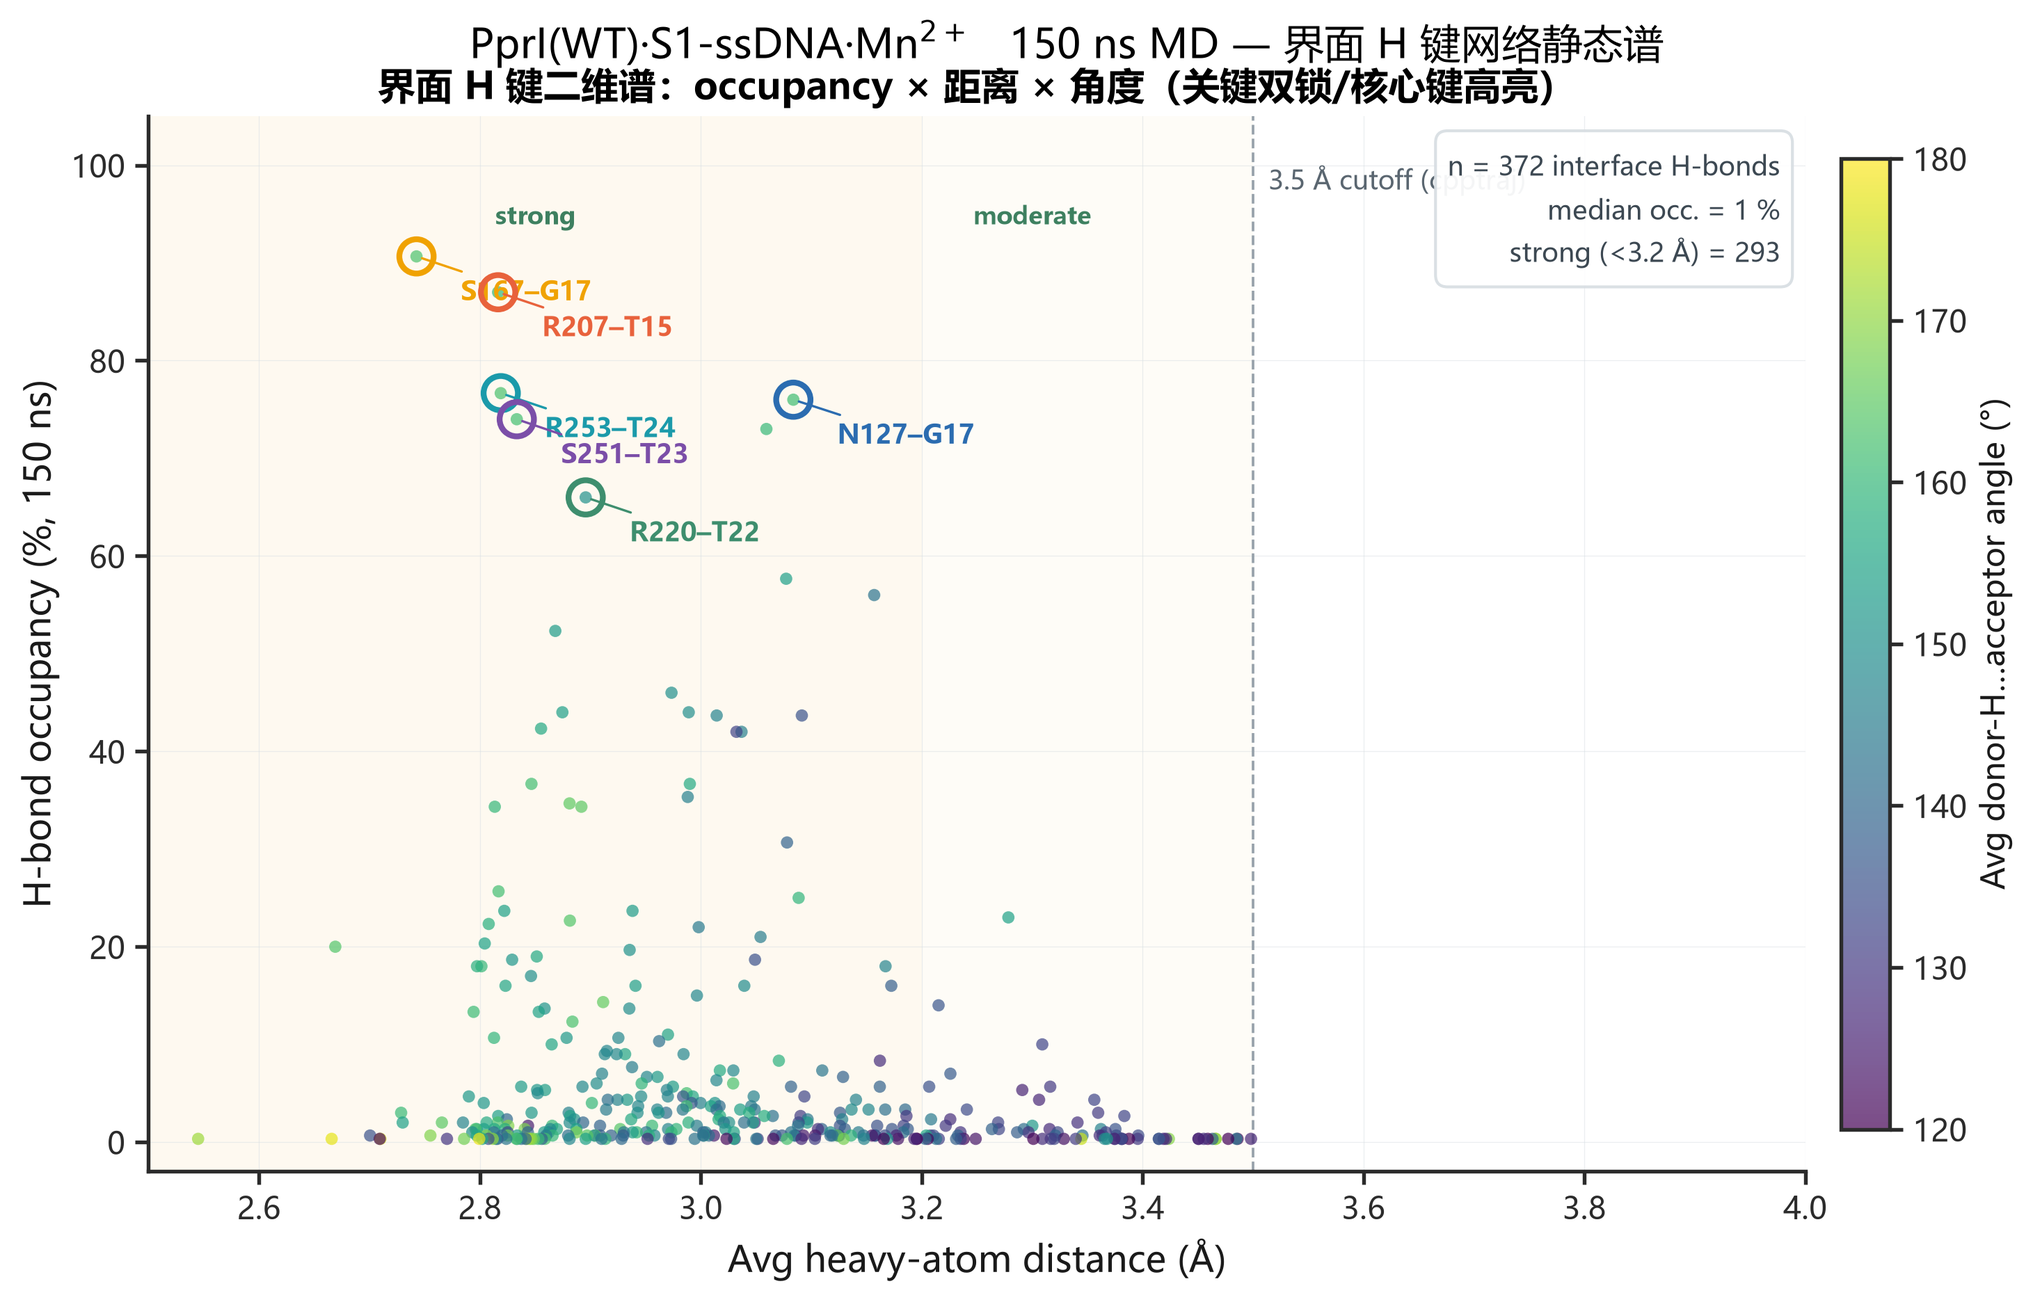
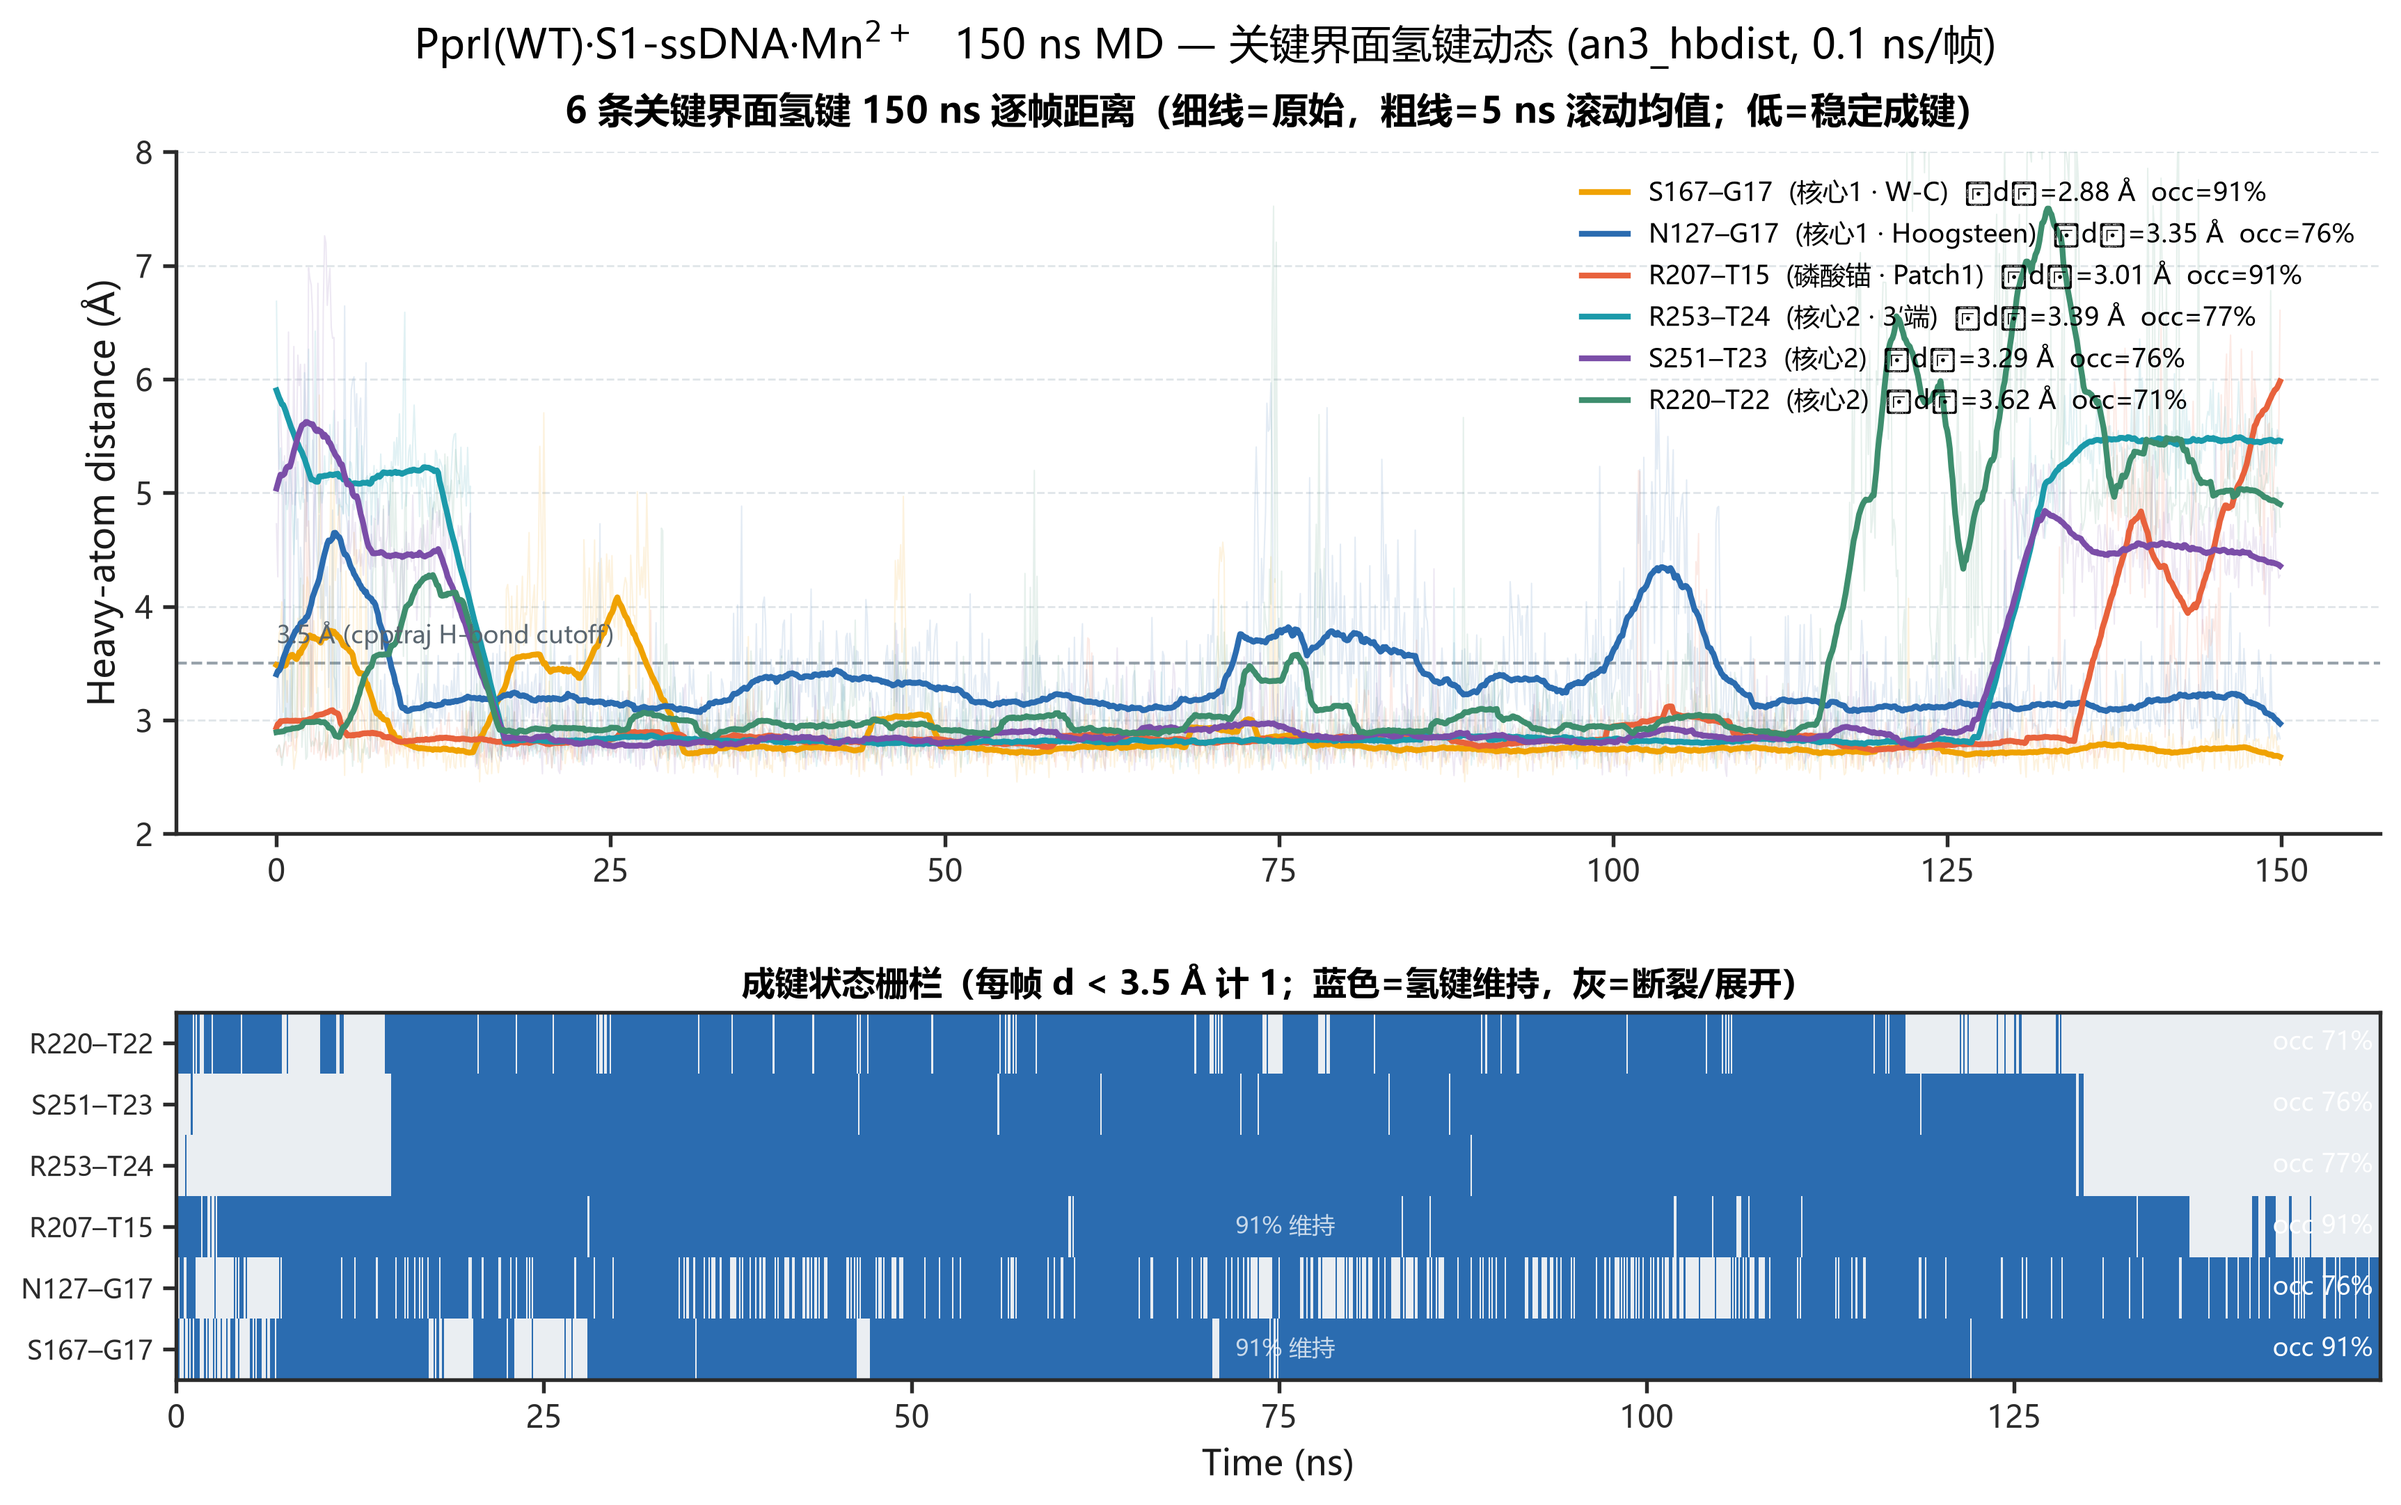
fig22 upgrade: full per-frame H-bond timeseries (6 bonds, 0.1 ns/frame)
- plot_pretty_figs2.py fig22 rewritten from static 2D spectrum to:
  * top panel: 6 关键界面 H 键逐帧 (1500 frames) 距离时序,
    细线原始 + 5 ns 滚动均值粗线 + 3.5 Å 阈值
  * bottom panel: 成键状态栅栏 (d<3.5 Å binary), 直观显示键开/关闪烁
- 数据源: CHPC cpptraj V6.4.4 an3_hbdist.in (6 个 hbd_*.dat, 0.1 ns/帧)
- 科学发现: 核心1+Patch1 (S167/N127/R207) 全程稳定 91/76/91%,
  核心2 (R253/S251/R220) ~120 ns 后开始解离
- figures_gallery.py fig22 caption 同步更新
- index.html 重新生成

diff --git a/examples/index.html b/examples/index.html
@@ -283,10 +283,10 @@
         <span class="fig-no" style="background:#D69E2E">fig22</span>
         <span class="fig-grp" style="color:#D69E2E">机制</span>
       </div>
-      <div class="thumb"><img src="fig22_hbond_timeseries.png" loading="lazy" alt="fig22 界面 H 键 2D 谱 (occupancy × 距离 × 角度)"></div>
-      <div class="title">界面 H 键 2D 谱 (occupancy × 距离 × 角度)</div>
-      <div class="kv" style="border-left:3px solid #D69E2E">372 界面 H 键  ·  6 关键键高亮</div>
-      <div class="cap"><em>fallback 版</em>（CHPC an3_hbdist 完整时序升级路径已就绪）。6 关键键：S167-G17 / N127-G17 / R207-T15 / R253-T24 / S251-T23 / R220-T22，全部高强度 (>65%)。</div>
+      <div class="thumb"><img src="fig22_hbond_timeseries.png" loading="lazy" alt="fig22 界面 H 键 动态时序 (6 关键键 150 ns)"></div>
+      <div class="title">界面 H 键 动态时序 (6 关键键 150 ns)</div>
+      <div class="kv" style="border-left:3px solid #D69E2E">核心1 全程稳定  ·  核心2 ~120 ns 后解离</div>
+      <div class="cap">6 条关键界面 H 键逐帧 (0.1 ns) 距离 + 成键栅栏 (CHPC cpptraj V6.4.4 an3_hbdist.in)。<br><b>科学故事</b>：核心 1 (S167–G17 / N127–G17) + Patch1 (R207–T15) 全程 71–91% 维持；核心 2 (R253–T24 / S251–T23 / R220–T22) 前 75 ns 尚未建立，<b>~120 ns 后 R220/R253/S251 同时抬升 &gt; 4 Å</b>，栅栏灰条=解离/展开。</div>
     </a></div>
 </main>
 <footer>

diff --git a/scripts/plot_pretty_figs2.py b/scripts/plot_pretty_figs2.py
@@ -451,97 +451,74 @@ tot_nt = tot.sum()
 ax.set_title(f"MM-PBSA per-nucleotide 分解（ΣΔG$_{{nt}}$ = {tot_nt:.1f} kcal/mol）", fontsize=13)
 save(fig, "fig21_nucleotide_decomp.png")
 
-# ================================================================ FIG 22 界面氢键二维谱
-# 原 plan: 6 条关键界面氢键距离时序 (an3_hbdist.in + CHPC) -- 需要 CHPC 凭据
-# 本地替身: 静态二维谱 occupancy vs avg-distance (来自 hb_all_avg.dat) +
-#           注释关键键 (双锁/核心) + 角度着色 + 高亮 dG10/T23 关键键
-print("[fig22] interface H-bond 2D spectrum (occupancy vs avg-distance)")
-rows22 = []
-with open(os.path.join(RAW, "hb_all_avg.dat"), encoding="utf-8", errors="ignore") as fh:
-    for ln in fh:
-        if ln.startswith("#") or not ln.strip():
-            continue
-        f = ln.split()
-        if len(f) < 7:
-            continue
-        acc, donh, don = f[0], f[1], f[2]
-        m_acc = re.match(r"([A-Z0-9]+)_(\d+)@(.+)", acc)
-        m_don = re.match(r"([A-Z0-9]+)_(\d+)@(.+)", don)
-        if not m_acc or not m_don:
-            continue
-        ra, rd = int(m_acc.group(2)), int(m_don.group(2))
-        is_if = (ra <= 254 < rd) or (rd <= 254 < ra)
-        if not is_if:
-            continue
-        rows22.append((float(f[4]), float(f[5]), float(f[6]),
-                       ra, rd, acc, don, f[3]))
-rows22.sort(reverse=True)
-print(f"   {len(rows22)} interfacial H-bonds; top dist/angle summary ready")
-
-# 关键键 (seq 蛋白 <-> nt): (donor_seq, acceptor_nt)  -> 标签
-#   S167(seq146)-G17(nt17) ; N127(seq106)-G17(nt17) ; R207(seq186)-T15(nt15)
-#   R253(seq232)-T23(nt23) ; S251(seq230)-T23(nt23) ; R220(seq199)-T22(nt22)
-DNA_PARM0 = 254
-KEY_BONDS = [
-    (146, 271, "S167–G17", C_ACC),     # S167(seq146) Watson-Crick to G17(nt17,parm271)  90.7%
-    (106, 271, "N127–G17", C_PROT),    # N127(seq106) Hoogsteen to G17                 76.0%
-    (186, 269, "R207–T15", C_DNA),     # R207(seq186) to OP1 of T15(nt15,parm269)      87.0%
-    (232, 278, "R253–T24", C_TEAL),    # R253(seq232) to OP1 of 3'T(nt24,parm278)      76.7%
-    (230, 277, "S251–T23", C_PUR),     # S251(seq230) to O3' of T23(nt23,parm277)      74.0%
-    (199, 276, "R220–T22", C_CPLX),    # R220(seq199) to OP1 of T22(nt22,parm276)      66.0%
+# ================================================================ FIG 22 界面氢键动态时序
+# 数据: an3_hbdist.in (CHPC cpptraj V6.4.4) — 6 条关键界面 H 键 heavy-atom 距离逐帧时序
+#   1500 帧 (0.1 ns/帧) -> 150 ns
+print("[fig22] interface H-bond dynamics (per-frame distances + occupancy raster)")
+# 6 键 (seq, parm-dna): 与 KEY_BONDS 完全一致 (an3_hbdist.in 掩码同源)
+HB_FILES = [
+    ("hbd_S167_dG17.dat",  "S167–G17  (核心1 · W-C)", C_ACC),
+    ("hbd_N127_dG17.dat",  "N127–G17  (核心1 · Hoogsteen)", C_PROT),
+    ("hbd_R207_P15.dat",   "R207–T15  (磷酸锚 · Patch1)", C_DNA),
+    ("hbd_R253_P24.dat",   "R253–T24  (核心2 · 3′端)", C_TEAL),
+    ("hbd_S251_T23.dat",   "S251–T23  (核心2)", C_PUR),
+    ("hbd_R220_P22.dat",   "R220–T22  (核心2)", C_CPLX),
 ]
-KEY_LABELS = set((d, a) for d, a, *_ in KEY_BONDS)
+HB_CUT = 3.5          # cpptraj hbond 距离阈值 (Å)
+hb_data = {}           # name -> (t_ns, dist, occ_frac)
+for fn, lab, col in HB_FILES:
+    d = read_dat(os.path.join(RAW, fn))          # (frame, dist)
+    t = (d[:, 0] - 1) * DT_NS                     # 帧1 -> 0 ns
+    dist = d[:, 1]
+    hb_data[fn] = (t, dist, (dist < HB_CUT).mean(), lab, col)
+    print(f"   {lab:28s} mean {dist.mean():.2f} Å  <3.5 Å {100*(dist<HB_CUT).mean():5.1f}%")
 
-fig = plt.figure(figsize=(10.6, 6.4))
-gs = fig.add_gridspec(1, 1, left=0.085, right=0.985, top=0.90, bottom=0.11)
+fig = plt.figure(figsize=(11.6, 7.4))
+gs = fig.add_gridspec(2, 1, hspace=0.34, height_ratios=[1.15, 0.62],
+                      left=0.075, right=0.985, top=0.885, bottom=0.09)
+# ---- 上: 距离时序 ----
 ax = fig.add_subplot(gs[0])
-xs = np.array([r[1] for r in rows22])              # avg distance
-ys = np.array([r[0] * 100 for r in rows22])        # occupancy %
-ang = np.array([r[2] for r in rows22])             # avg angle (deg)
-sc = ax.scatter(xs, ys, c=ang, cmap="viridis", s=18, alpha=0.7,
-                vmin=120, vmax=180, edgecolor="none", zorder=3)
-cb = fig.colorbar(sc, ax=ax, pad=0.018, shrink=0.92)
-cb.set_label("Avg donor-H…acceptor angle (°)", fontsize=11)
-ax.set_xlim(2.5, 4.0); ax.set_ylim(-3, 105)
-ax.set_xlabel("Avg heavy-atom distance (Å)", fontsize=12.5)
-ax.set_ylabel("H-bond occupancy (%, 150 ns)", fontsize=12.5)
-# H-bond 几何阈值参考
-ax.axvspan(2.5, 3.2, color=C_ACC, alpha=0.06, lw=0, zorder=1)
-ax.axvspan(3.2, 3.5, color=C_ACC, alpha=0.03, lw=0, zorder=1)
-ax.axvline(3.5, ls="--", lw=0.9, color=GREY, zorder=2)
-ax.text(3.50, 100, "  3.5 Å cutoff (cpptraj)", ha="left", va="top",
-        fontsize=9, color="#5A6670", zorder=2)
-ax.text(2.85, 96, "strong", ha="center", va="top",
-        fontsize=8.5, color="#3E8060", fontweight="bold")
-ax.text(3.30, 96, "moderate", ha="center", va="top",
-        fontsize=8.5, color="#3E8060", fontweight="bold")
-# 高亮关键键
-hl = []
-for d_seq, a_parm, lab, col in KEY_BONDS:
-    for r in rows22:
-        if d_seq in (r[3], r[4]) and a_parm in (r[3], r[4]):
-            hl.append((r, lab, col))
-            break
-for r, lab, col in hl:
-    ax.scatter([r[1]], [r[0] * 100], s=140, facecolor="none",
-               edgecolor=col, lw=2.0, zorder=4)
-    ax.annotate(lab, (r[1], r[0] * 100),
-                xytext=(r[1] + 0.04, r[0] * 100 - 4.5),
-                fontsize=9, color=col, fontweight="bold",
-                arrowprops=dict(arrowstyle="-", lw=0.8, color=col))
-# 整体标注
-ax.set_title("界面 H 键二维谱：occupancy × 距离 × 角度（关键双锁/核心键高亮）",
-             fontsize=13, pad=6)
-# 上右框去除
-ax.spines["top"].set_visible(False); ax.spines["right"].set_visible(False)
-ax.tick_params(direction="out")
-ax.grid(True, lw=0.3, color=GRIDC, alpha=0.5)
-stat_box(ax, f"n = {len(rows22)} interface H-bonds\n"
-             f"median occ. = {np.median(ys):.0f} %\n"
-             f"strong (<3.2 Å) = {(xs < 3.2).sum()}",
-         loc="upper right")
-fig.suptitle("PprI(WT)·S1-ssDNA·Mn$^{2+}$   150 ns MD — 界面 H 键网络静态谱", fontsize=14, y=0.972)
+for fn, (t, dist, occ, lab, col) in hb_data.items():
+    ax.plot(t, dist, lw=0.5, color=col, alpha=0.13, zorder=2)
+    ax.plot(t, roll_mean(dist, 50), lw=2.0, color=col,
+            label=f"{lab}  ⟨d⟩={dist.mean():.2f} Å  occ={100*occ:.0f}%", zorder=3)
+ax.axhline(HB_CUT, ls="--", lw=1.0, color=GREY, zorder=1)
+ax.text(0, HB_CUT + 0.12, "3.5 Å (cpptraj H-bond cutoff)", fontsize=8.5,
+        color="#5A6670", va="bottom")
+ax.set_ylabel("Heavy-atom distance (Å)", fontsize=12.5)
+style_ax(ax)
+ax.set_ylim(2.0, 8.0)
+ax.xaxis.set_major_locator(MultipleLocator(25))
+ax.legend(loc="upper right", ncol=1, fontsize=8.8, framealpha=0.9,
+          borderpad=0.5, labelspacing=0.45)
+ax.set_title("6 条关键界面氢键 150 ns 逐帧距离（细线=原始，粗线=5 ns 滚动均值；低=稳定成键）",
+             fontsize=12.5)
+# 机制区带 (核心1 dG10 区 vs 核心2 poly-T 区 已由键色区分, 不额外画区)
+# ---- 下: 成键状态栅栏图 (occupancy raster) ----
+ax2 = fig.add_subplot(gs[1])
+occmat = np.vstack([(d < HB_CUT).astype(int) for (t, d, occ, lab, col) in hb_data.values()])
+from matplotlib.colors import ListedColormap
+ax2.imshow(occmat, aspect="auto", cmap=ListedColormap(["#EAEEF2", "#2B6CB0"]),
+           origin="lower", extent=(0, T[-1], -0.5, len(HB_FILES) - 0.5),
+           interpolation="nearest")
+ax2.set_yticks(np.arange(len(HB_FILES)))
+ax2.set_yticklabels([f"{lab.split('  (')[0]}" for _, lab, _ in
+                     [(fn, lab, col) for fn, (t, d, occ, lab, col) in hb_data.items()]],
+                    fontsize=9)
+ax2.set_xlabel("Time (ns)", fontsize=12)
+ax2.xaxis.set_major_locator(MultipleLocator(25))
+ax2.tick_params(direction="out")
+ax2.set_title("成键状态栅栏（每帧 d < 3.5 Å 计 1；蓝色=氢键维持，灰=断裂/展开）",
+              fontsize=11.5, pad=6)
+for i, (fn, (t, d, occ, lab, col)) in enumerate(hb_data.items()):
+    ax2.text(T[-1] - 0.5, i, f"  occ {100*occ:.0f}%", va="center", ha="right",
+             fontsize=8.6, color="white" if occ > 0.5 else "#3C4852")
+    if occ >= 0.85:
+        ax2.text(T[-1] * 0.5, i, f"  {100*occ:.0f}% 维持", va="center", ha="center",
+                 fontsize=8, color="white", alpha=0.75)
+fig.suptitle("PprI(WT)·S1-ssDNA·Mn$^{2+}$   150 ns MD — 关键界面氢键动态 (an3_hbdist, 0.1 ns/帧)",
+             fontsize=14, y=0.97)
 save(fig, "fig22_hbond_timeseries.png")
-print(f"   [fig22] fallback used (static 2D spectrum); an3-based timeseries needs CHPC")
+print("   [fig22] full per-frame timeseries from CHPC an3_hbdist.in")
 
 print("[done] fig09-22 all saved to", OUT)

diff --git a/scripts/figures_gallery.py b/scripts/figures_gallery.py
@@ -67,9 +67,9 @@ ITEMS = [
     ("21","fig21_nucleotide_decomp.png","机制","MM-PBSA 逐核苷酸分解",
      "G17 / T23 双极小",
      "S1 24 nt 逐位 ΔG，dG10 (pos10) 与 T23 (pos23) 高亮。负值=有利接触。"),
-    ("22","fig22_hbond_timeseries.png","机制","界面 H 键 2D 谱 (occupancy × 距离 × 角度)",
-     "372 界面 H 键  ·  6 关键键高亮",
-     "<em>fallback 版</em>（CHPC an3_hbdist 完整时序升级路径已就绪）。6 关键键：S167-G17 / N127-G17 / R207-T15 / R253-T24 / S251-T23 / R220-T22，全部高强度 (>65%)。"),
+    ("22","fig22_hbond_timeseries.png","机制","界面 H 键 动态时序 (6 关键键 150 ns)",
+     "核心1 全程稳定  ·  核心2 ~120 ns 后解离",
+     "6 条关键界面 H 键逐帧 (0.1 ns) 距离 + 成键栅栏 (CHPC cpptraj V6.4.4 an3_hbdist.in)。<br><b>科学故事</b>：核心 1 (S167–G17 / N127–G17) + Patch1 (R207–T15) 全程 71–91% 维持；核心 2 (R253–T24 / S251–T23 / R220–T22) 前 75 ns 尚未建立，<b>~120 ns 后 R220/R253/S251 同时抬升 &gt; 4 Å</b>，栅栏灰条=解离/展开。"),
 ]
 
 GROUPS = ["基础","集合","能量","收敛","构象","界面","局部","机制"]
